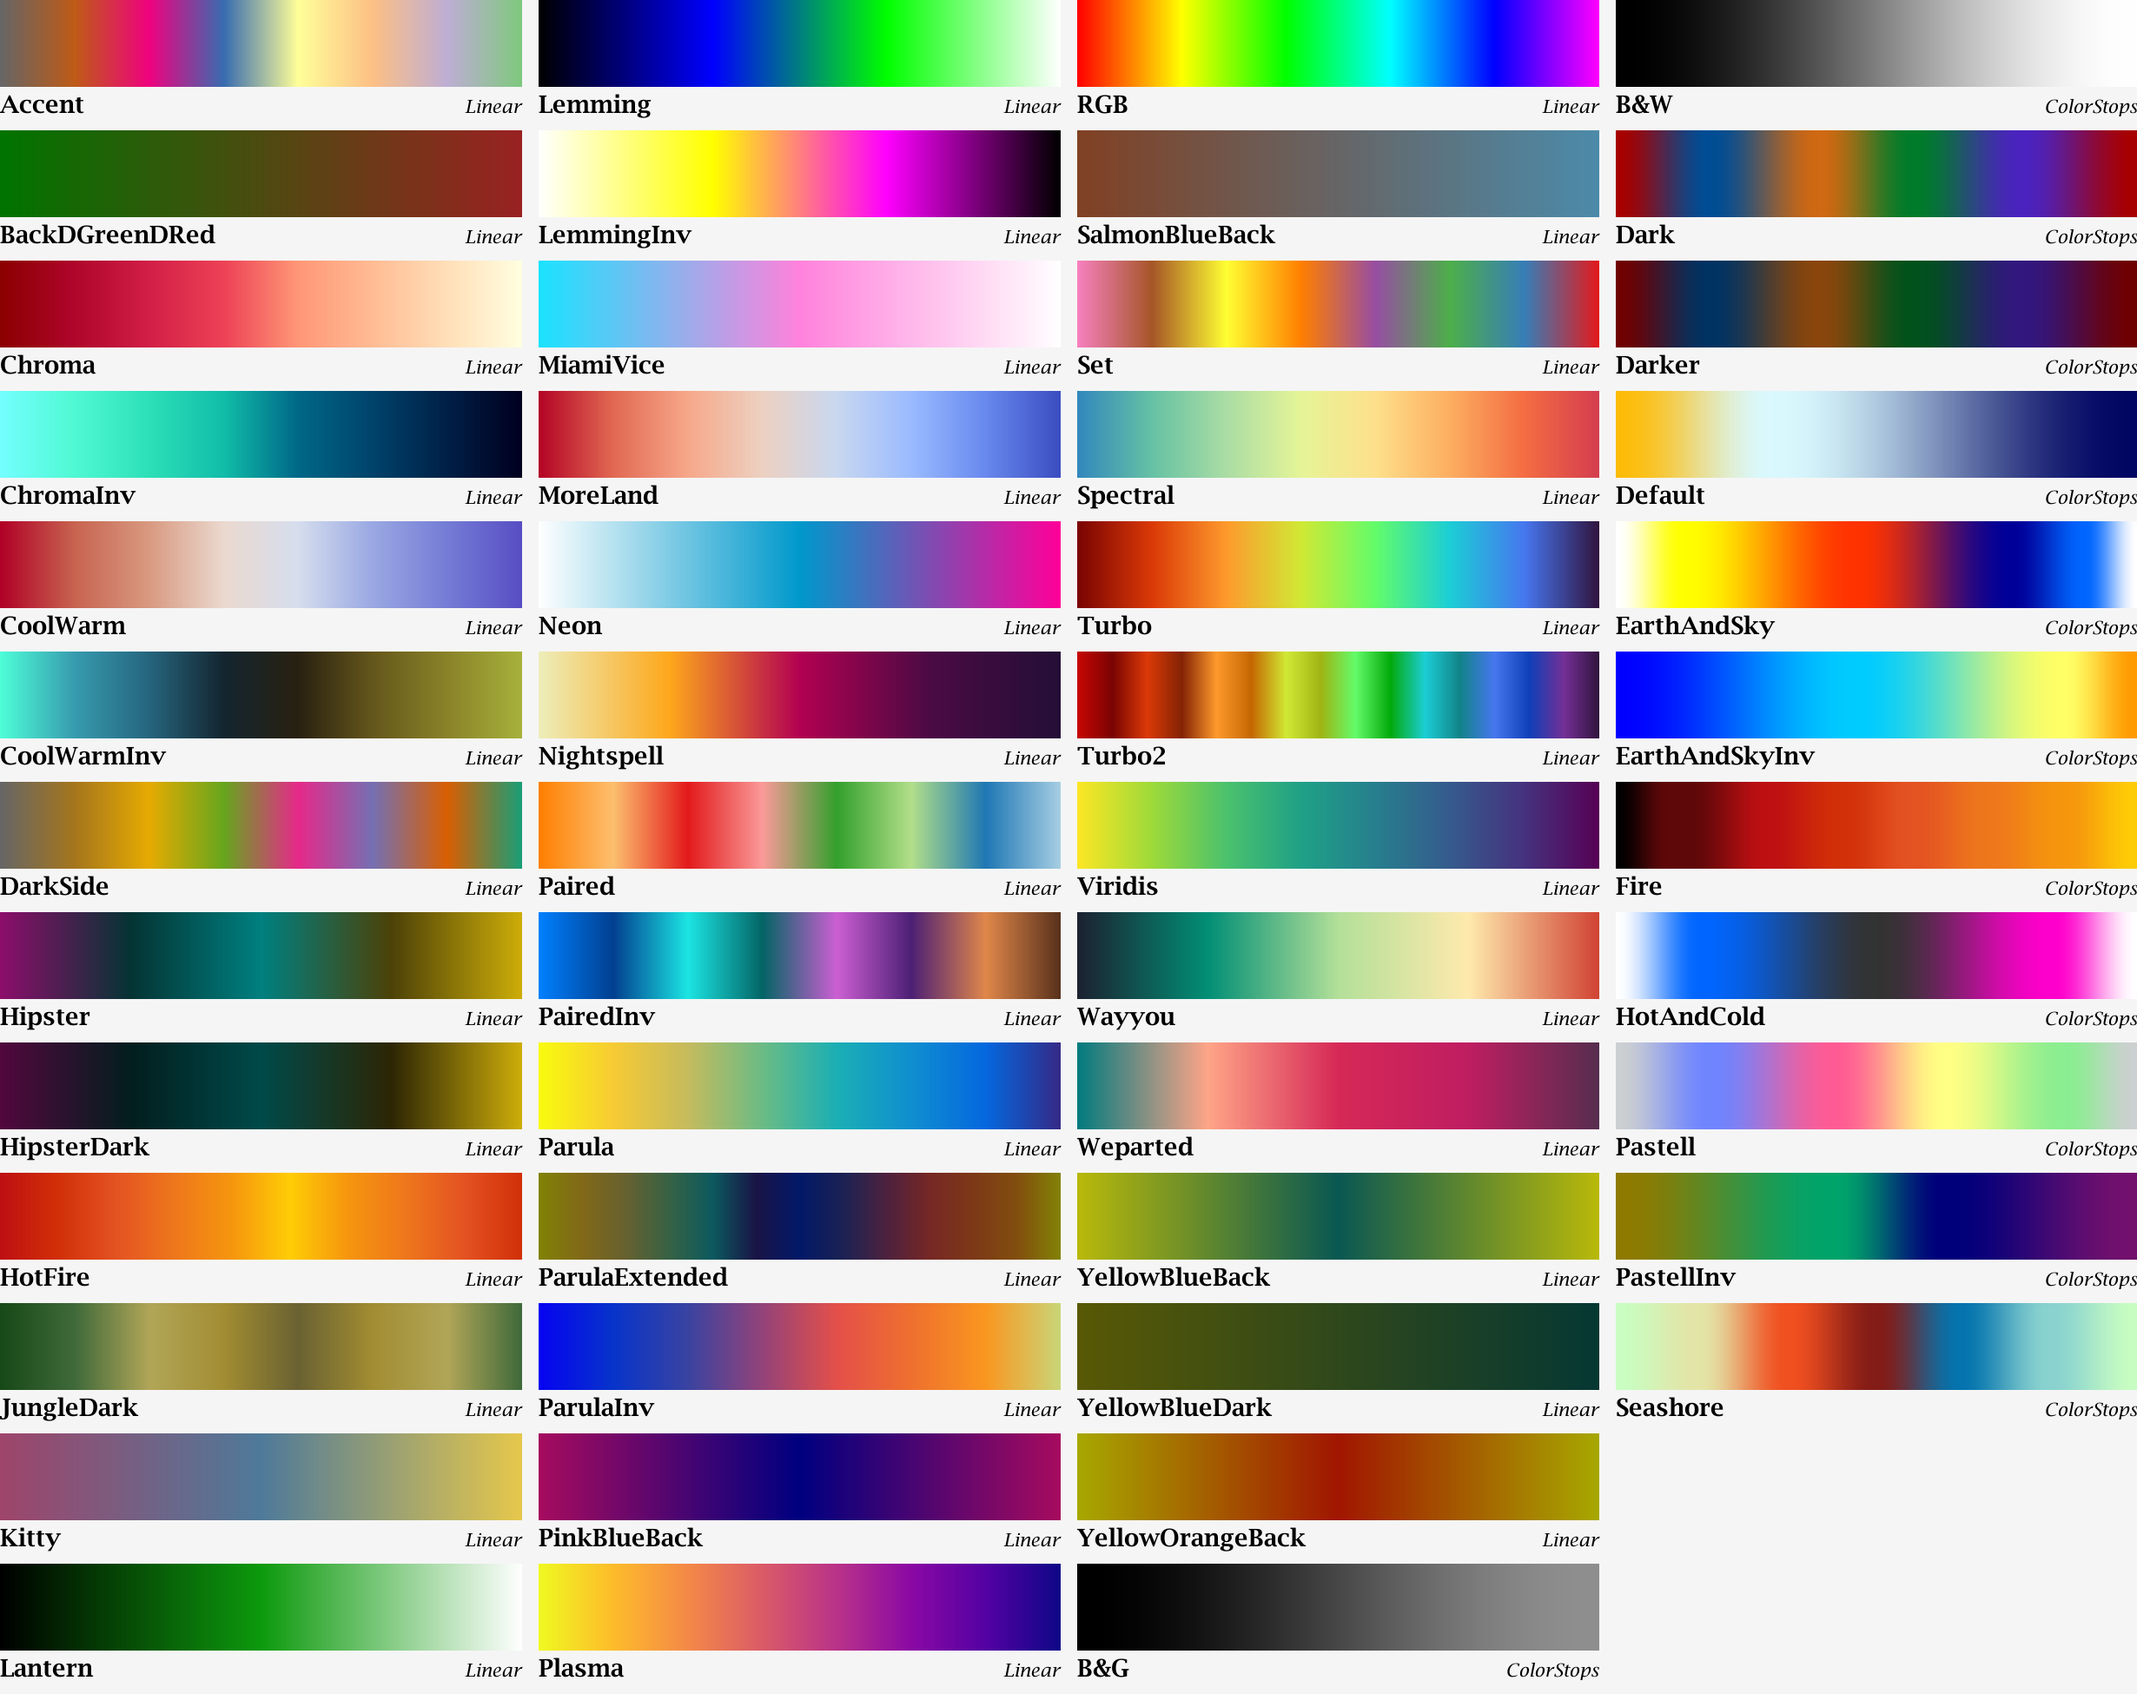
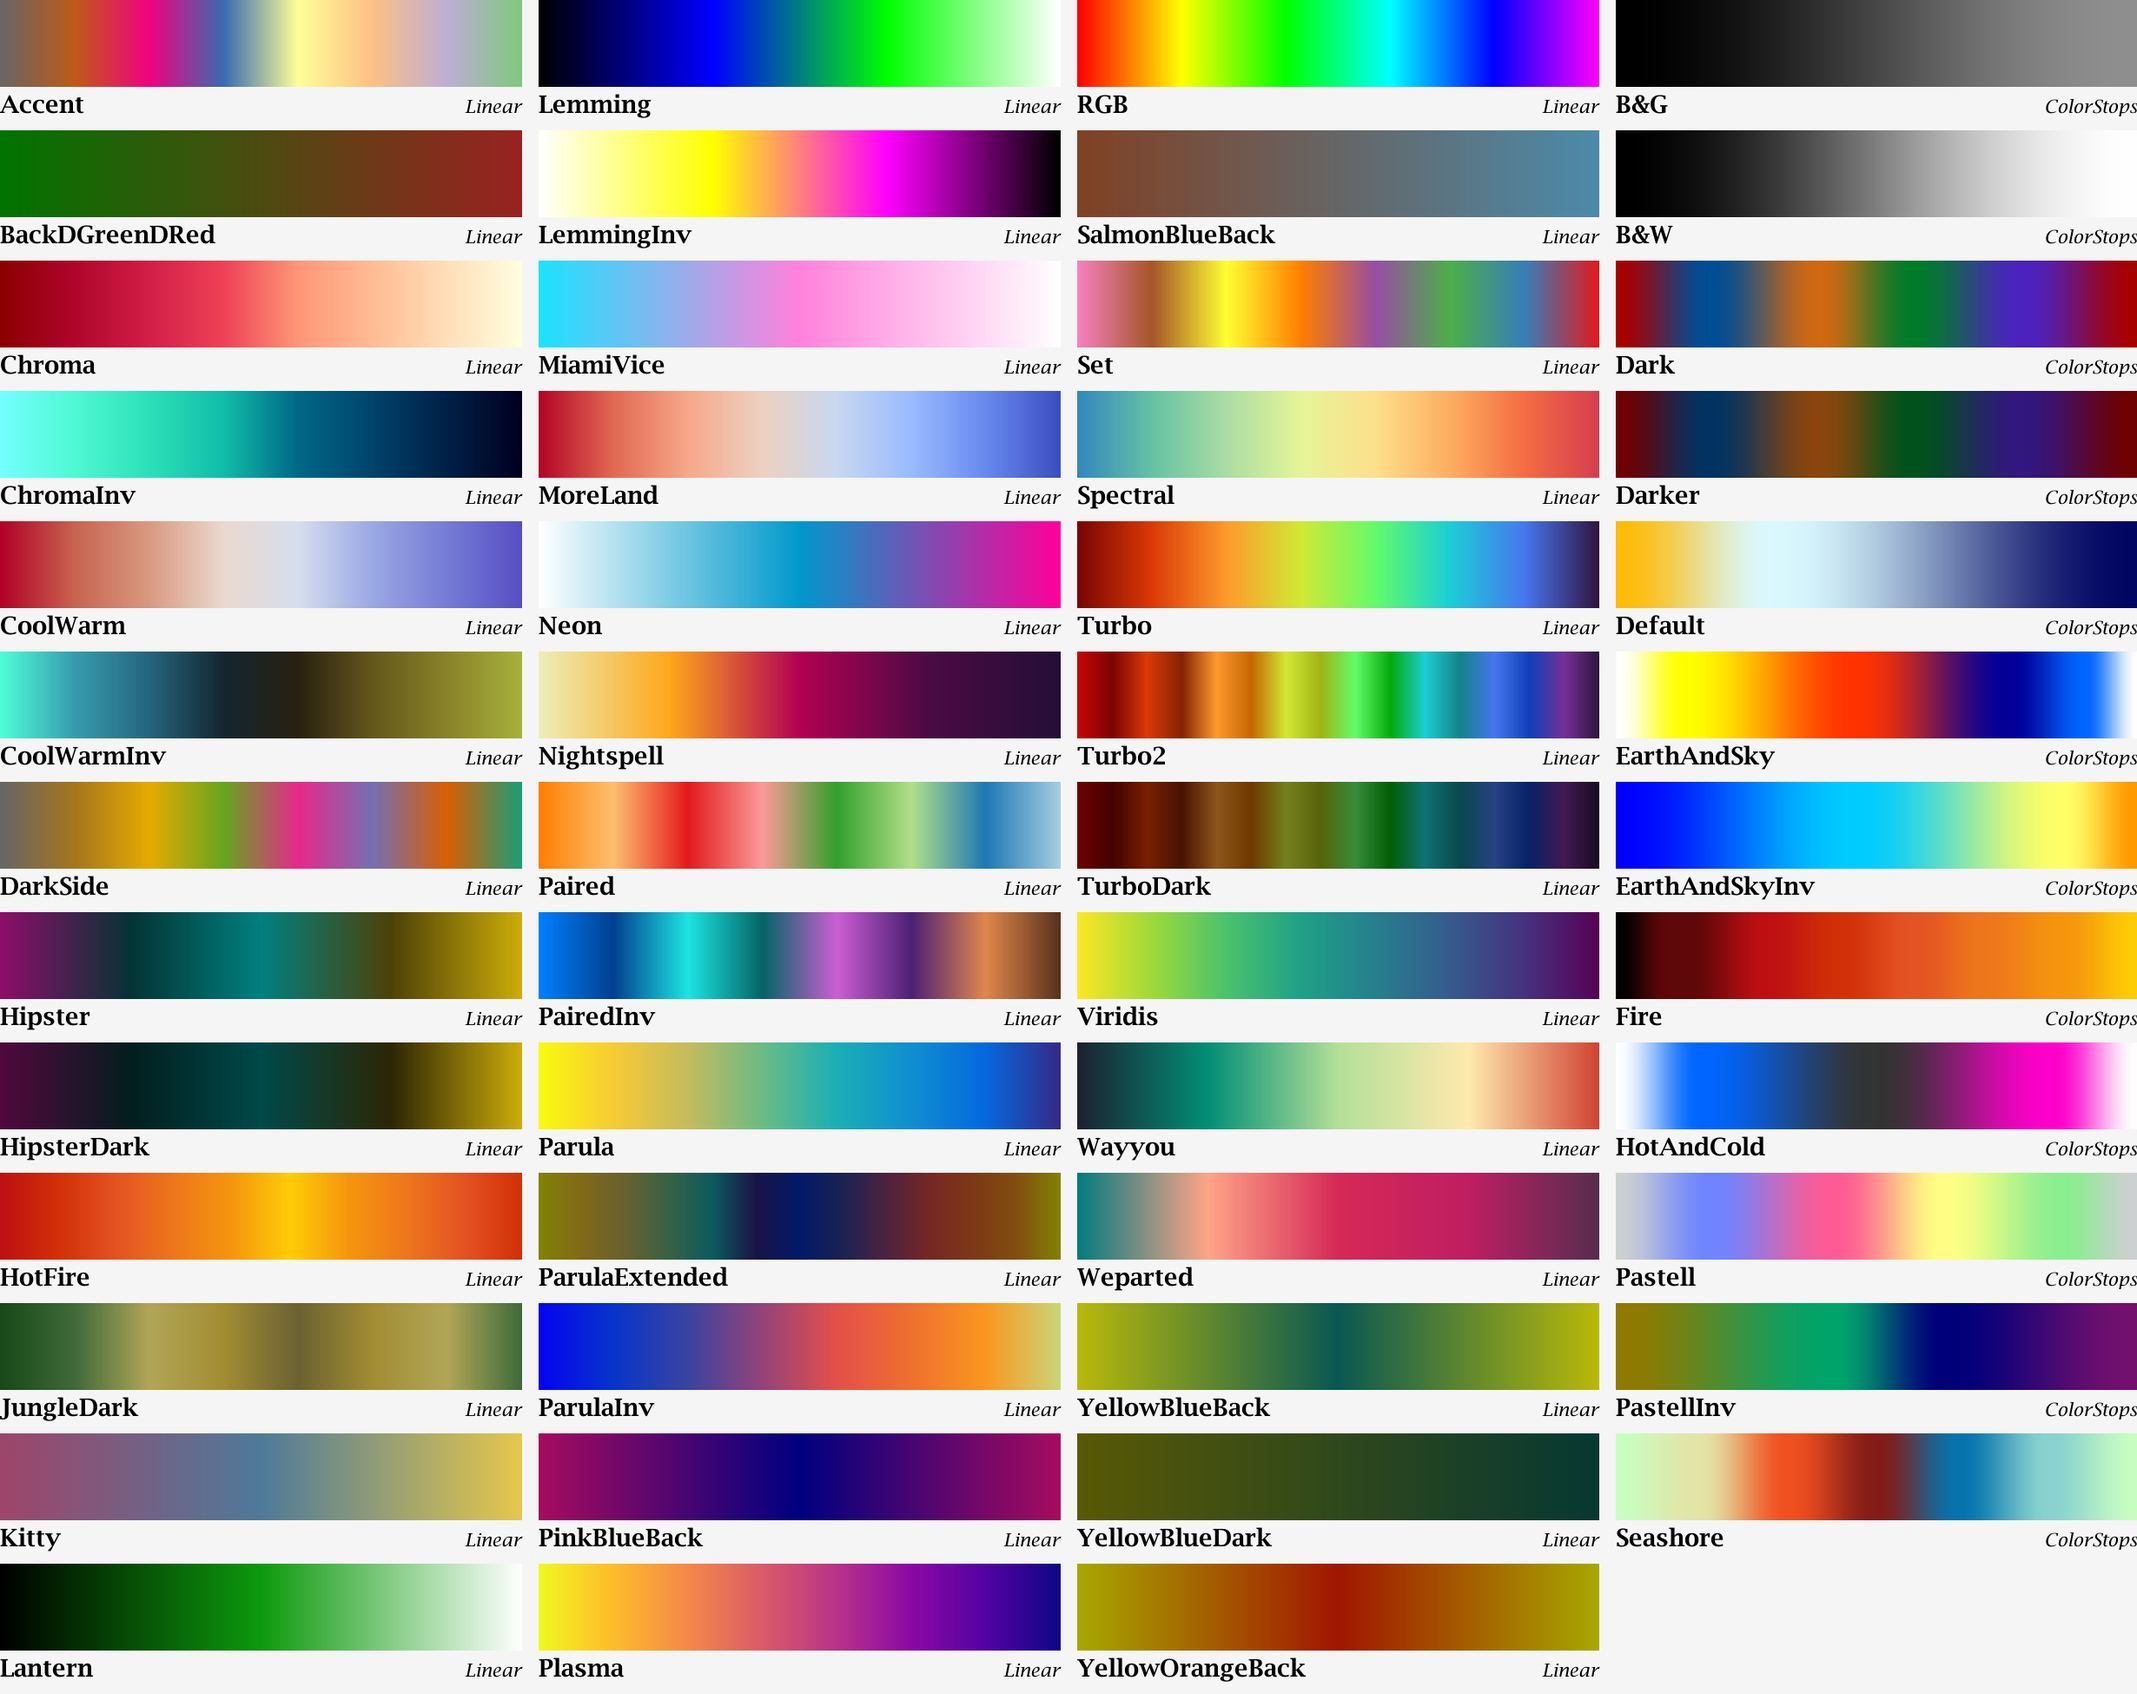
.

Changed region(s): [[0.4943, 0.0, 1.0, 1.0]]

diff --git a/cmd/gridEmulator/profiling.go b/cmd/gridEmulator/profiling.go
@@ -2,66 +2,80 @@ package main
 
 import (
 	"flag"
+	"fmt"
 	"log"
-	_ "net/http/pprof"
 	"os"
+	"path"
 	"runtime"
 	"runtime/pprof"
 	"runtime/trace"
 )
 
 var (
-	cpuprofile, memprofile, tracefile string
-	fhCpu, fhTrace                    *os.File
+	doCpuProf, doMemProf, doTrace       bool
+	cpuProfFile, memProfFile, traceFile string
+	fhCpu, fhMem, fhTrace               *os.File
 )
 
 func init() {
-	flag.StringVar(&cpuprofile, "cpuprofile", "", "write cpu profile to 'file'")
-	flag.StringVar(&memprofile, "memprofile", "", "write memory profile to 'file'")
-	flag.StringVar(&tracefile, "trace", "", "write trace data to 'file'")
+	cpuProfFile = fmt.Sprintf("%s.cpuprof", path.Base(os.Args[0]))
+	memProfFile = fmt.Sprintf("%s.memprof", path.Base(os.Args[0]))
+	traceFile = fmt.Sprintf("%s.trace", path.Base(os.Args[0]))
+
+	flag.BoolVar(&doCpuProf, "cpuprof", false,
+		"write cpu profile to "+cpuProfFile)
+	flag.BoolVar(&doMemProf, "memprof", false,
+		"write memory profile to "+memProfFile)
+	flag.BoolVar(&doTrace, "trace", false,
+		"write trace data to "+traceFile)
 }
 
 func StartProfiling() {
-	if cpuprofile != "" {
-		fhCpu, err := os.Create(cpuprofile)
+	var err error
+
+	if doCpuProf {
+		fhCpu, err = os.Create(cpuProfFile)
 		if err != nil {
 			log.Fatal("couldn't create cpu profile: ", err)
 		}
-		if err := pprof.StartCPUProfile(fhCpu); err != nil {
+		err = pprof.StartCPUProfile(fhCpu)
+		if err != nil {
 			log.Fatal("couldn't start cpu profiling: ", err)
 		}
 	}
 
-	if tracefile != "" {
-		fhTrace, err := os.Create(tracefile)
+	if doMemProf {
+		fhMem, err = os.Create(memProfFile)
+		if err != nil {
+			log.Fatal("couldn't create memory profile: ", err)
+		}
+	}
+
+	if doTrace {
+		fhTrace, err = os.Create(traceFile)
 		if err != nil {
 			log.Fatal("couldn't create tracefile: ", err)
 		}
-		if err := trace.Start(fhTrace); err != nil {
-			log.Fatal("couldn't start trace: ", err)
-		}
+		trace.Start(fhTrace)
 	}
 }
 
 func StopProfiling() {
-	if cpuprofile != "" {
+	if fhCpu != nil {
 		pprof.StopCPUProfile()
 		fhCpu.Close()
 	}
 
-	if memprofile != "" {
-		fh, err := os.Create(memprofile)
-		if err != nil {
-			log.Fatal("couldn't create memory profile: ", err)
-		}
-		defer fh.Close()
+	if fhMem != nil {
 		runtime.GC()
-		if err := pprof.WriteHeapProfile(fh); err != nil {
+		err := pprof.WriteHeapProfile(fhMem)
+		if err != nil {
 			log.Fatal("couldn't write memory profile: ", err)
 		}
+		fhMem.Close()
 	}
 
-	if tracefile != "" {
+	if fhTrace != nil {
 		trace.Stop()
 		fhTrace.Close()
 	}

diff --git a/cmd/gridAnimator/profiling.go b/cmd/gridAnimator/profiling.go
@@ -2,66 +2,80 @@ package main
 
 import (
 	"flag"
+	"fmt"
 	"log"
-	_ "net/http/pprof"
 	"os"
+	"path"
 	"runtime"
 	"runtime/pprof"
 	"runtime/trace"
 )
 
 var (
+	doCpuProf, doMemProf, doTrace       bool
 	cpuProfFile, memProfFile, traceFile string
-	fhCpu, fhTrace                      *os.File
+	fhCpu, fhMem, fhTrace               *os.File
 )
 
 func init() {
-	flag.StringVar(&cpuProfFile, "cpuprofile", "", "write cpu profile to 'file'")
-	flag.StringVar(&memProfFile, "memprofile", "", "write memory profile to 'file'")
-	flag.StringVar(&traceFile, "trace", "", "write trace data to 'file'")
+	cpuProfFile = fmt.Sprintf("%s.cpuprof", path.Base(os.Args[0]))
+	memProfFile = fmt.Sprintf("%s.memprof", path.Base(os.Args[0]))
+	traceFile = fmt.Sprintf("%s.trace", path.Base(os.Args[0]))
+
+	flag.BoolVar(&doCpuProf, "cpuprof", false,
+		"write cpu profile to "+cpuProfFile)
+	flag.BoolVar(&doMemProf, "memprof", false,
+		"write memory profile to "+memProfFile)
+	flag.BoolVar(&doTrace, "trace", false,
+		"write trace data to "+traceFile)
 }
 
 func StartProfiling() {
-	if cpuProfFile != "" {
-		fhCpu, err := os.Create(cpuProfFile)
+	var err error
+
+	if doCpuProf {
+		fhCpu, err = os.Create(cpuProfFile)
 		if err != nil {
 			log.Fatal("couldn't create cpu profile: ", err)
 		}
-		if err := pprof.StartCPUProfile(fhCpu); err != nil {
+		err = pprof.StartCPUProfile(fhCpu)
+		if err != nil {
 			log.Fatal("couldn't start cpu profiling: ", err)
 		}
 	}
 
-	if traceFile != "" {
-		fhTrace, err := os.Create(traceFile)
+	if doMemProf {
+		fhMem, err = os.Create(memProfFile)
+		if err != nil {
+			log.Fatal("couldn't create memory profile: ", err)
+		}
+	}
+
+	if doTrace {
+		fhTrace, err = os.Create(traceFile)
 		if err != nil {
 			log.Fatal("couldn't create tracefile: ", err)
 		}
-		if err := trace.Start(fhTrace); err != nil {
-			log.Fatal("couldn't start trace: ", err)
-		}
+		trace.Start(fhTrace)
 	}
 }
 
 func StopProfiling() {
-	if cpuProfFile != "" {
+	if fhCpu != nil {
 		pprof.StopCPUProfile()
 		fhCpu.Close()
 	}
 
-	if memProfFile != "" {
-		fh, err := os.Create(memProfFile)
-		if err != nil {
-			log.Fatal("couldn't create memory profile: ", err)
-		}
-		defer fh.Close()
+	if fhMem != nil {
 		runtime.GC()
-		if err := pprof.WriteHeapProfile(fh); err != nil {
+		err := pprof.WriteHeapProfile(fhMem)
+		if err != nil {
 			log.Fatal("couldn't write memory profile: ", err)
 		}
+		fhMem.Close()
 	}
 
-	if traceFile != "" {
+	if fhTrace != nil {
 		trace.Stop()
 		fhTrace.Close()
 	}

diff --git a/cmd/gridEmulator/gridEmulator.go b/cmd/gridEmulator/gridEmulator.go
@@ -12,7 +12,7 @@ import (
 
 const (
 	defWidth     = 40
-	defHeight    = 10
+	defHeight    = 20
 	defPixelSize = 40.0
 )
 
